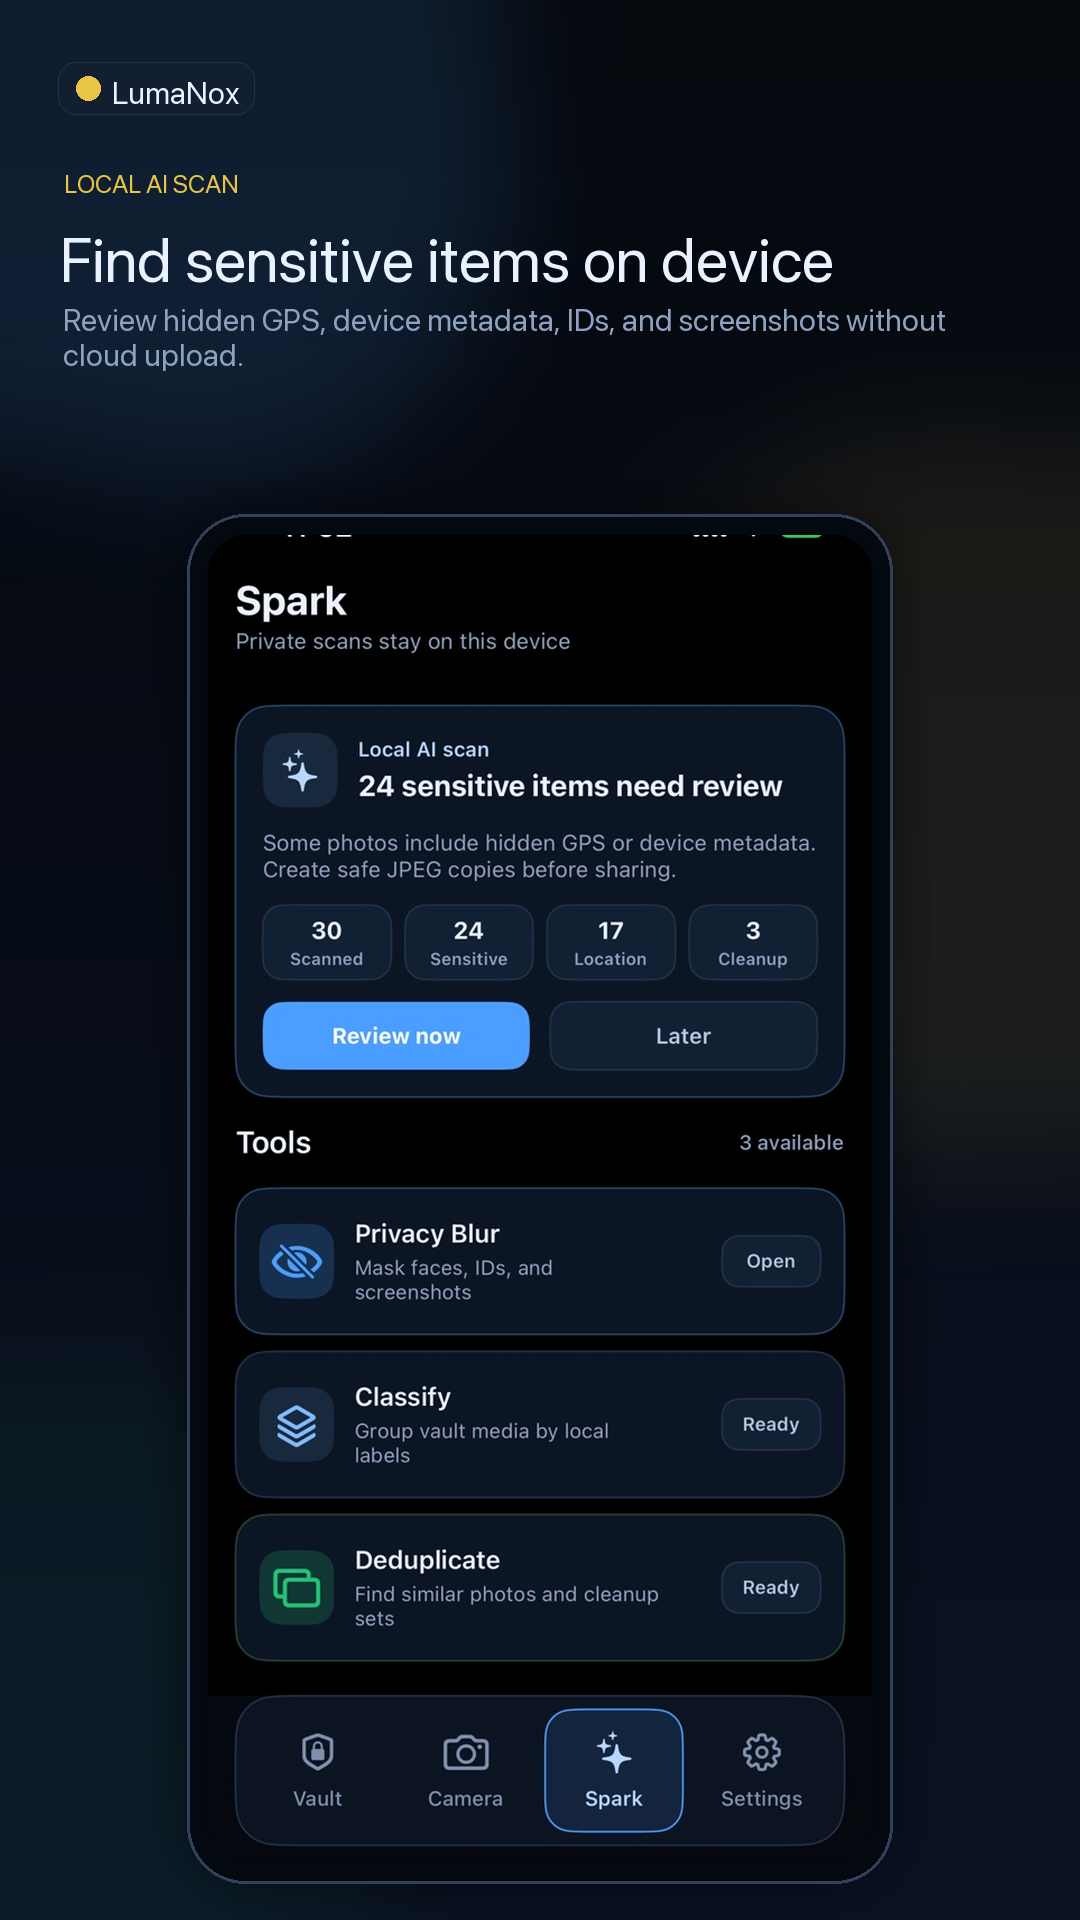
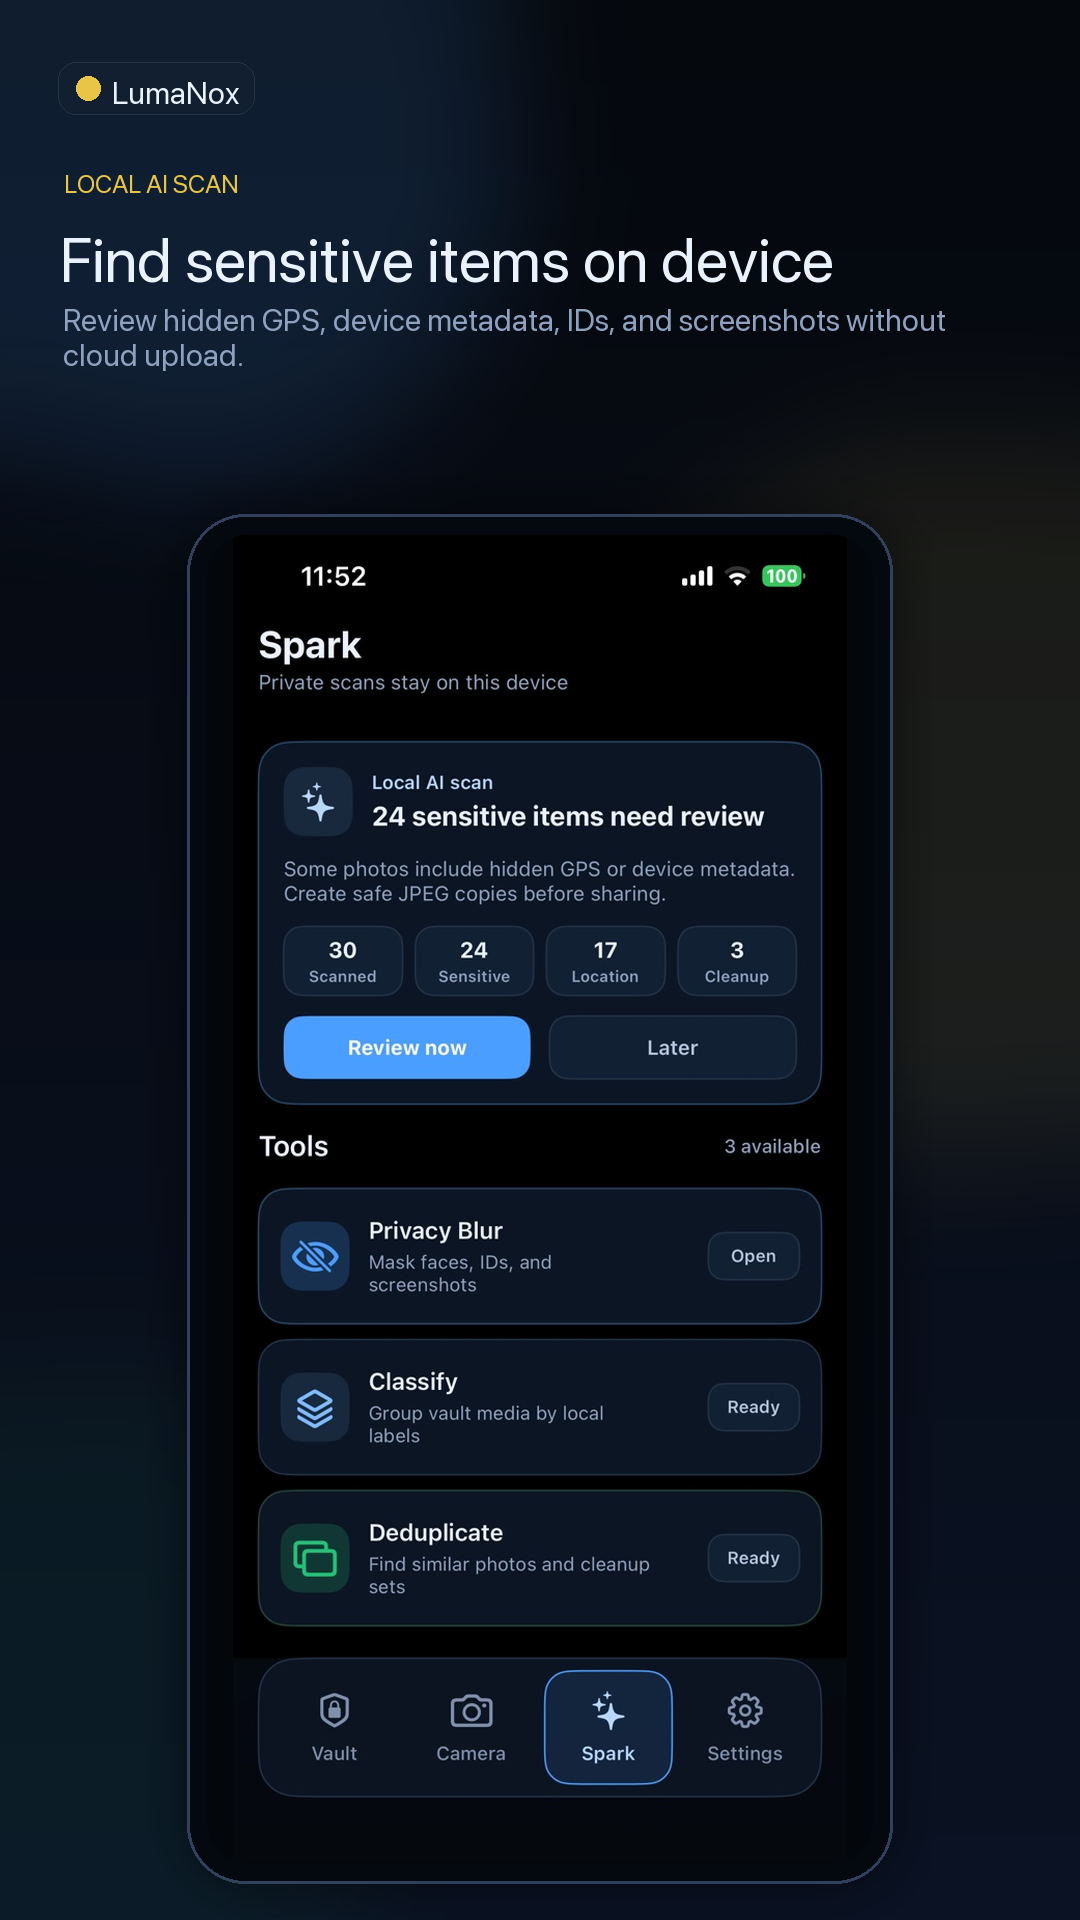
Polish iOS marketing screenshots

Changed region(s): [[0.2139, 0.2812, 0.7944, 0.9688], [0.6417, 0.2812, 0.7639, 0.3125]]

diff --git a/marketing/google-play/generate_phone_screenshots_ios_latest.py b/marketing/google-play/generate_phone_screenshots_ios_latest.py
@@ -133,11 +133,11 @@ def draw_brand_mark(draw: ImageDraw.ImageDraw, x: int, y: int, accent: tuple[int
 def fit_image(source: Image.Image, size: tuple[int, int]) -> Image.Image:
     w, h = size
     img = source.convert("RGBA")
-    scale = max(w / img.width, h / img.height)
+    scale = min(w / img.width, h / img.height)
     resized = img.resize((int(img.width * scale), int(img.height * scale)), Image.Resampling.LANCZOS)
-    x = max(0, (resized.width - w) // 2)
-    y = max(0, (resized.height - h) // 2)
-    return resized.crop((x, y, x + w, y + h))
+    fitted = Image.new("RGBA", (w, h), DEEP)
+    fitted.alpha_composite(resized, ((w - resized.width) // 2, (h - resized.height) // 2))
+    return fitted
 
 
 def phone_frame(screen: Image.Image) -> Image.Image:
@@ -281,17 +281,28 @@ def redaction_screen() -> Image.Image:
     ad = ImageDraw.Draw(art)
     ad.ellipse((420, 580, 508, 668), fill=(252, 164, 48))
     ad.text((394, 692), "Browser", font=F_SMALL, fill=(252, 236, 220))
-    ad.ellipse((442, 416, 506, 480), fill=(238, 255, 245))
-    ad.ellipse((462, 436, 486, 460), fill=TEAL)
-    ad.rounded_rectangle((452, 470, 496, 502), radius=12, fill=(238, 255, 245))
-    ad.text((436, 520), "Location", font=F_SMALL, fill=(255, 255, 255))
+    ad.ellipse((430, 398, 526, 494), fill=(238, 255, 245))
+    ad.ellipse((464, 428, 492, 456), fill=TEAL)
+    ad.rounded_rectangle((452, 482, 504, 520), radius=12, fill=(238, 255, 245))
+    ad.text((430, 538), "Location", font=F_SMALL, fill=(255, 255, 255))
     for x in [120, 220, 320, 420, 520]:
         ad.ellipse((x, 900, x + 42, 942), fill=(255, 255, 255, 238))
     ad.rounded_rectangle((168, 214, 544, 294), radius=28, fill=(6, 9, 16, 170))
     ad.text((218, 232), "Sensitive address", font=F_H3, fill=TEXT)
-    mosaic = art.crop((408, 390, 530, 560)).resize((14, 20), Image.Resampling.BILINEAR).resize((122, 170), Image.Resampling.NEAREST)
-    art.paste(mosaic, (408, 390))
-    ad.rounded_rectangle((408, 390, 530, 560), radius=18, outline=AMBER, width=5)
+    sensitive_box = (404, 390, 538, 548)
+    mosaic = art.crop(sensitive_box).resize((12, 14), Image.Resampling.BILINEAR)
+    md = ImageDraw.Draw(mosaic)
+    for x in range(0, mosaic.width, 2):
+        for y in range(0, mosaic.height, 2):
+            if (x + y) % 4 == 0:
+                md.rectangle((x, y, x + 1, y + 1), fill=(255, 255, 255, 90))
+    mosaic = mosaic.resize((sensitive_box[2] - sensitive_box[0], sensitive_box[3] - sensitive_box[1]), Image.Resampling.NEAREST)
+    art.paste(mosaic, sensitive_box)
+    ad.rounded_rectangle(sensitive_box, radius=18, outline=AMBER, width=5)
+    for x in range(sensitive_box[0] + 8, sensitive_box[2] - 8, 18):
+        ad.line((x, sensitive_box[1] + 4, x, sensitive_box[3] - 4), fill=(255, 255, 255, 36), width=1)
+    for y in range(sensitive_box[1] + 8, sensitive_box[3] - 8, 18):
+        ad.line((sensitive_box[0] + 4, y, sensitive_box[2] - 4, y), fill=(0, 0, 0, 42), width=1)
     img.paste(art, (preview[0], preview[1]), rounded_mask(art.size, 28))
 
     d.rounded_rectangle((38, 1330, 748, 1460), radius=28, fill=SECTION, outline=STROKE)

diff --git a/marketing/google-play/generate_phone_screenshots_apple_reg_111.py b/marketing/google-play/generate_phone_screenshots_apple_reg_111.py
@@ -11,6 +11,7 @@ from PIL import Image, ImageDraw, ImageFilter, ImageFont
 W, H = 1080, 1920
 DEFAULT_SOURCE_DIR = Path("/Users/wanhongbo/workspace/apple-reg/111")
 OUT_DIR = Path(__file__).resolve().parent / "phone_screenshots_en_apple_reg_111"
+AI_THUMBNAIL_SHEET = Path(__file__).resolve().parent / "assets" / "ai_album_thumbnails_sheet.png"
 
 BG_TOP = (5, 8, 13)
 BG_BOTTOM = (11, 19, 36)
@@ -116,11 +117,43 @@ def draw_brand_mark(draw: ImageDraw.ImageDraw, x: int, y: int, accent: tuple[int
 def fit_image(source: Image.Image, size: tuple[int, int]) -> Image.Image:
     w, h = size
     img = source.convert("RGBA")
-    scale = max(w / img.width, h / img.height)
+    scale = min(w / img.width, h / img.height)
     resized = img.resize((int(img.width * scale), int(img.height * scale)), Image.Resampling.LANCZOS)
-    x = max(0, (resized.width - w) // 2)
-    y = max(0, (resized.height - h) // 2)
-    return resized.crop((x, y, x + w, y + h))
+    fitted = Image.new("RGBA", (w, h), DEEP)
+    fitted.alpha_composite(resized, ((w - resized.width) // 2, (h - resized.height) // 2))
+    return fitted
+
+
+def paste_rounded(base: Image.Image, overlay: Image.Image, box: tuple[int, int, int, int], radius: int) -> None:
+    x0, y0, x1, y1 = box
+    resized = overlay.convert("RGBA").resize((x1 - x0, y1 - y0), Image.Resampling.LANCZOS)
+    base.paste(resized, (x0, y0), rounded_mask(resized.size, radius))
+
+
+def ai_album_tiles() -> list[Image.Image]:
+    sheet = Image.open(AI_THUMBNAIL_SHEET).convert("RGBA")
+    tile = min(sheet.width, sheet.height) // 2
+    crops = [
+        (0, 0, tile, tile),
+        (tile, 0, tile * 2, tile),
+        (0, tile, tile, tile * 2),
+        (tile, tile, tile * 2, tile * 2),
+    ]
+    return [sheet.crop(box) for box in crops]
+
+
+def sanitize_capture(screen: Image.Image, source_name: str) -> Image.Image:
+    fixed = screen.convert("RGBA").copy()
+    if source_name == "IMG_7487.PNG.JPG":
+        boxes = [
+            (49, 530, 288, 744),
+            (304, 530, 543, 744),
+            (49, 812, 288, 1026),
+            (304, 812, 543, 1026),
+        ]
+        for tile, box in zip(ai_album_tiles(), boxes, strict=True):
+            paste_rounded(fixed, tile, box, 24)
+    return fixed
 
 
 def phone_frame(screen: Image.Image) -> Image.Image:
@@ -156,7 +189,8 @@ def build_slide(spec: dict[str, object]) -> Image.Image:
     y += 22
     draw_lines(draw, (63, y), wrap_text(draw, str(spec["body"]), F_BODY, 900), F_BODY, MUTED, 9)
 
-    screen = Image.open(spec["source"]).convert("RGBA")  # type: ignore[arg-type]
+    source_path = Path(spec["source"])  # type: ignore[arg-type]
+    screen = sanitize_capture(Image.open(source_path), source_path.name)
     framed = phone_frame(screen)
     img.alpha_composite(framed, ((W - framed.width) // 2, 474))
     return img.convert("RGB")

diff --git a/marketing/google-play/phone_screenshots_en_apple_reg_111/README.md b/marketing/google-play/phone_screenshots_en_apple_reg_111/README.md
@@ -23,3 +23,11 @@ Output size: `1080x1920` PNG, portrait.
 | `01_encrypted_vault.png` | `IMG_7487.PNG.JPG` | Encrypted vault |
 | `02_local_ai_privacy_scan.png` | `IMG_7488.PNG.JPG` | Local AI privacy scan |
 | `03_security_and_backup_controls.png` | `IMG_7489.PNG.JPG` | Security and backup controls |
+
+`01_encrypted_vault.png` replaces the album photos from the source screenshot with AI-generated privacy-safe thumbnail art from:
+
+```text
+marketing/google-play/assets/ai_album_thumbnails_sheet.png
+```
+
+The phone screenshot is fitted without vertical cropping so the status bar and in-app copy remain visible.
